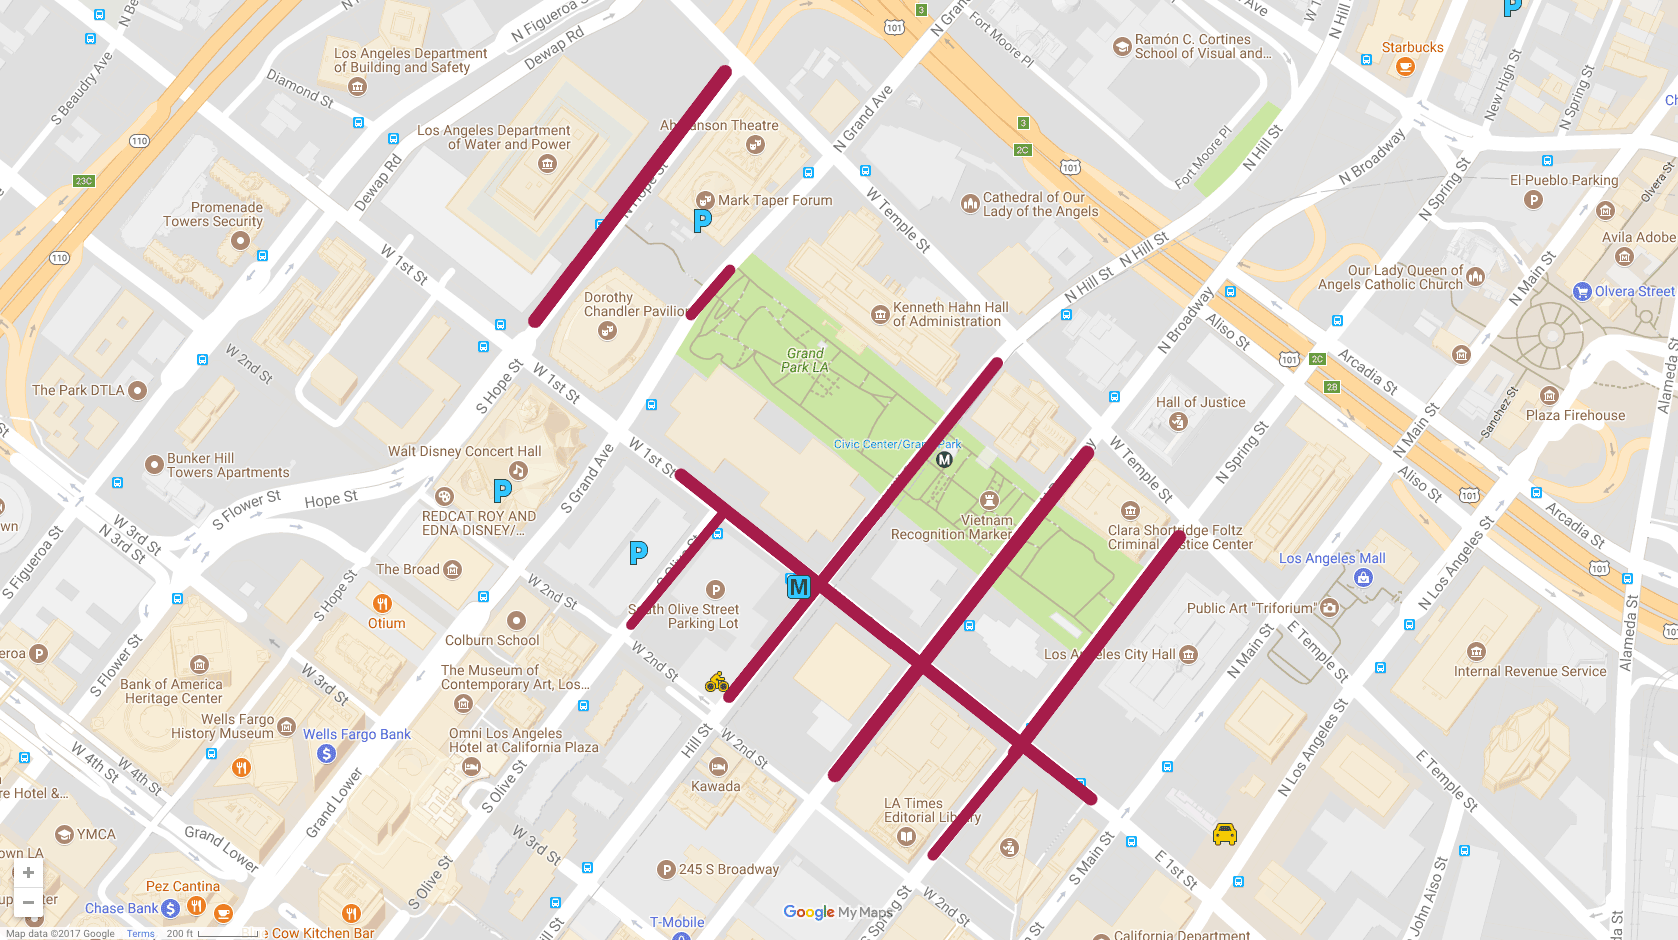
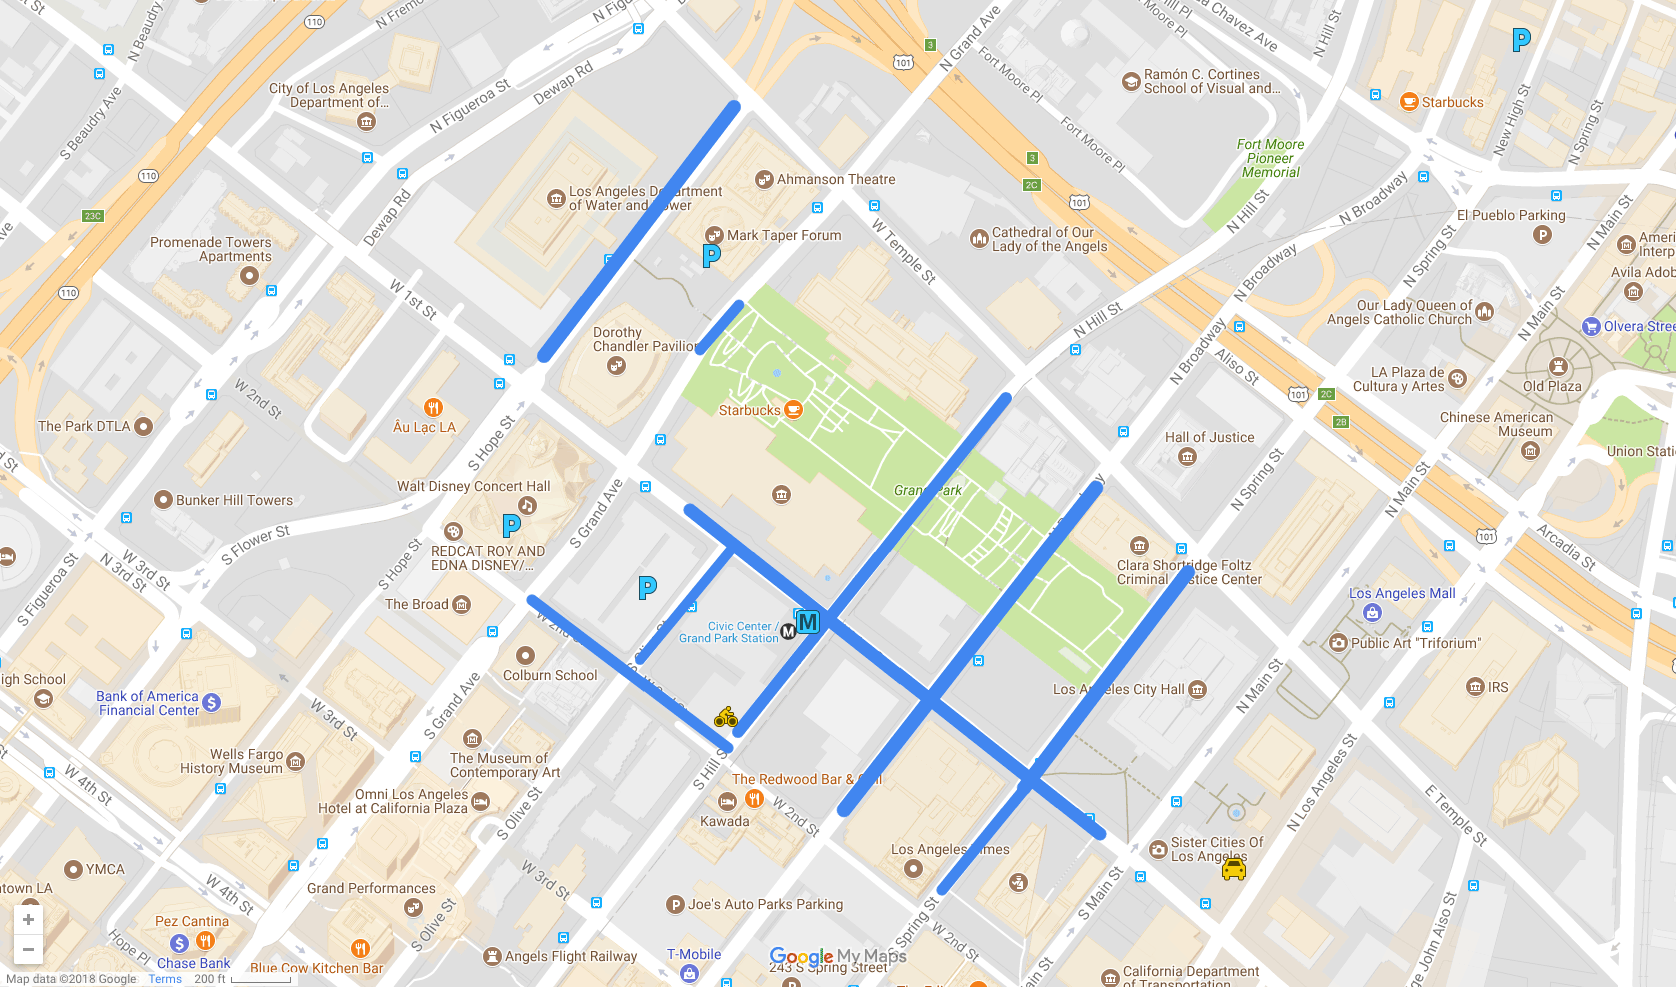
Update street closure image

diff --git a/css/style.css b/css/style.css
@@ -529,9 +529,15 @@
   figure > div[data-aspect-ratio="853/940"] {
     padding-bottom: 110.1992966%;
   }
+  figure > div[data-aspect-ratio="987/987"] {
+    padding-bottom: 100%;
+  }
   @media (min-aspect-ratio: 1/1) {
     figure > div[data-aspect-ratio-landscape="1678/940"] {
       padding-bottom: 56.01907032%;
+    }
+    figure > div[data-aspect-ratio-landscape="1676/987"] {
+      padding-bottom: 58.8902148%;
     }
   }
 

diff --git a/_layouts/default.html b/_layouts/default.html
@@ -8,7 +8,7 @@
   <title>{{ page.title }}</title>
 
   <link rel="stylesheet" href="https://fonts.googleapis.com/css?family=Open+Sans:400italic,700italic,400,700" />
-  <link rel="stylesheet" href="/css/style.css?v=3" />
+  <link rel="stylesheet" href="/css/style.css?v=4" />
 
   <!-- for general use -->
   <link rel="icon" type="image/png"    href="/images/favicon.png" />
